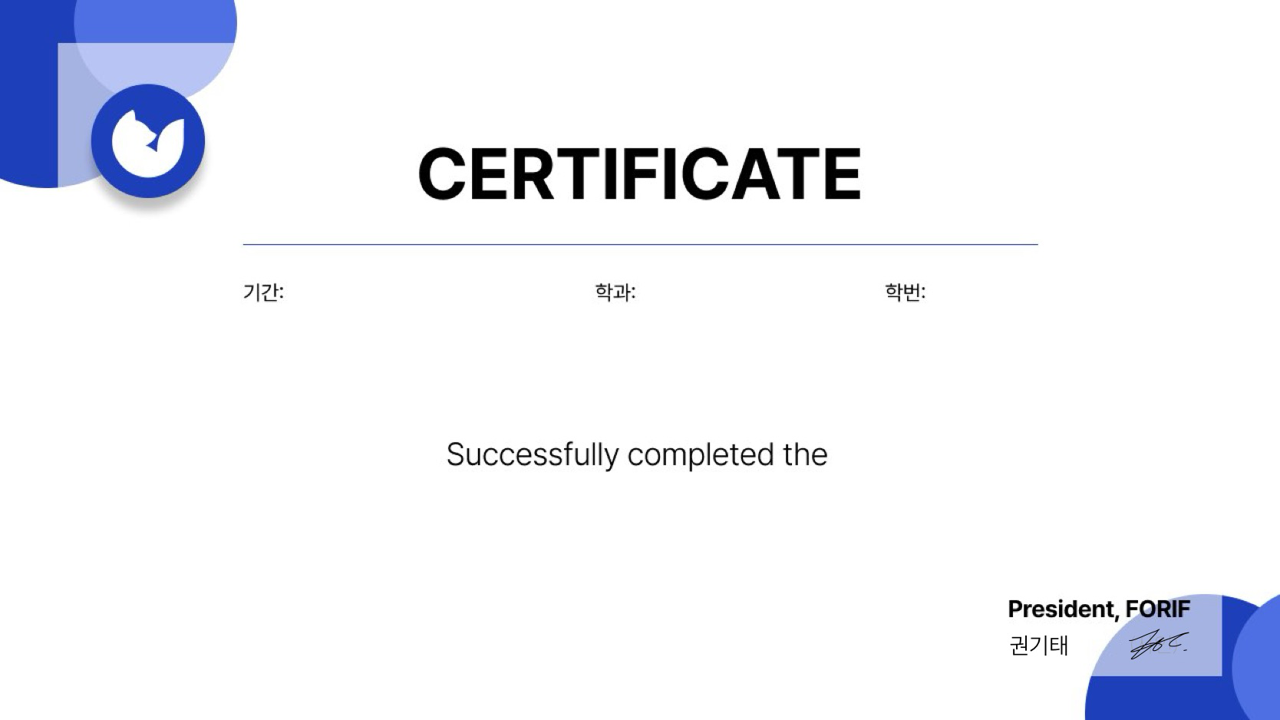
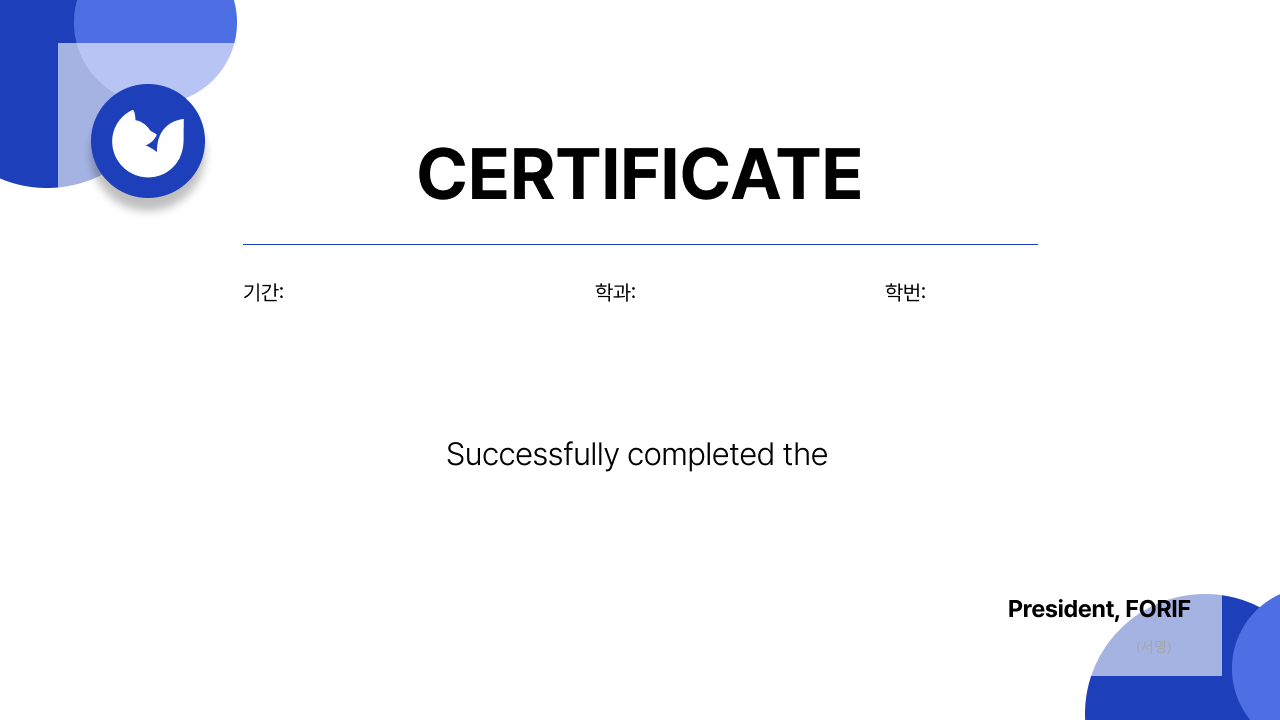
feat(study): 수료증 회장 이름 동적 렌더링
- 템플릿을 서명 없는 원본으로 교체하고 회장 이름을 텍스트로 렌더링
- 현재 회장(tb_staff_account affiliation='회장')을 자동 조회해 표기
- 수동 발급 시 president_name으로 과거 회장 지정 가능 (재발행용)

diff --git a/src/main/java/org/forif_backend/application/study/CertificateService.java b/src/main/java/org/forif_backend/application/study/CertificateService.java
@@ -8,6 +8,8 @@ import org.forif_backend.application.study.dto.IssueCertificatesResult;
 import org.forif_backend.common.exception.ErrorCode;
 import org.forif_backend.common.exception.ForifException;
 import org.forif_backend.domain.hackathon.HackathonRepository;
+import org.forif_backend.domain.staff.StaffAccount;
+import org.forif_backend.domain.staff.StaffAccountRepository;
 import org.forif_backend.domain.study.Study;
 import org.forif_backend.domain.study.StudyAttendanceRepository;
 import org.forif_backend.domain.study.StudyRepository;
@@ -41,8 +43,19 @@ public class CertificateService {
     private final StudyUserRepository studyUserRepository;
     private final StudyAttendanceRepository studyAttendanceRepository;
     private final HackathonRepository hackathonRepository;
+    private final StaffAccountRepository staffAccountRepository;
     private final CertificateImageGenerator certificateImageGenerator;
     private final FilePort filePort;
+
+    /**
+     * 현재 회장 이름 조회 (tb_staff_account의 affiliation='회장' ADMIN 계정)
+     */
+    private String resolvePresidentName() {
+        return staffAccountRepository.findByAffiliation("회장").stream()
+                .findFirst()
+                .map(StaffAccount::getName)
+                .orElse("");
+    }
 
     /**
      * 발급 대상 조회: 스터디 멘티 전원의 출석 횟수, 해커톤 참여, 자격 여부, 발급 상태
@@ -91,13 +104,19 @@ public class CertificateService {
      * 자격 검증과 DB 기록 없이 이미지 생성·저장 후 URL만 반환한다.
      */
     public String issueManualCertificate(String userName, String studentNumber, String department,
-                                         String studyName, String activityPeriod, String issueDate) {
+                                         String studyName, String activityPeriod, String issueDate,
+                                         String presidentName) {
         String resolvedIssueDate = issueDate == null || issueDate.isBlank()
                 ? LocalDate.now().format(ISSUE_DATE_FORMAT)
                 : issueDate;
+        // 과거 학기 재발행 시 당시 회장 이름을 직접 지정할 수 있고, 미지정 시 현재 회장
+        String resolvedPresidentName = presidentName == null || presidentName.isBlank()
+                ? resolvePresidentName()
+                : presidentName;
 
         byte[] image = certificateImageGenerator.generate(
-                userName, studentNumber, department, studyName, activityPeriod, resolvedIssueDate);
+                userName, studentNumber, department, studyName, activityPeriod,
+                resolvedIssueDate, resolvedPresidentName);
 
         // 파일명에 타임스탬프를 붙여 동일 인물 재발급 시 기존 파일을 덮어쓰지 않는다
         String filename = "%s-%d.png".formatted(studentNumber, System.currentTimeMillis());
@@ -120,6 +139,7 @@ public class CertificateService {
                 study.getActYear(), study.getActSemester()));
 
         String issueDate = LocalDate.now().format(ISSUE_DATE_FORMAT);
+        String presidentName = resolvePresidentName();
         String directory = "certificates/%d-%d/%d".formatted(
                 study.getActYear(), study.getActSemester(), study.getId());
 
@@ -151,7 +171,8 @@ public class CertificateService {
                     mentee.getUser().getDepartment(),
                     study.getStudyName(),
                     activityPeriod,
-                    issueDate
+                    issueDate,
+                    presidentName
             );
 
             String objectKey = filePort.uploadBytes(image, userId + ".png", directory, "image/png");

diff --git a/src/main/java/org/forif_backend/application/study/CertificateImageGenerator.java b/src/main/java/org/forif_backend/application/study/CertificateImageGenerator.java
@@ -39,6 +39,9 @@ public class CertificateImageGenerator {
     private static final int POS_STUDENT_NAME_Y = 360;
     private static final int POS_STUDY_NAME_Y = 500;
     private static final int[] POS_DATE = {575, 640};
+    // "President, FORIF" 라벨 아래 회장 이름 자리 (레거시에서는 템플릿에 수기로 넣던 부분)
+    private static final int FONT_PRESIDENT = 26;
+    private static final int[] POS_PRESIDENT_NAME = {1008, 632};
 
     private final ResourceLoader resourceLoader;
     private final String templatePath;
@@ -63,18 +66,22 @@ public class CertificateImageGenerator {
      * @param studyName      스터디명
      * @param activityPeriod 활동 기간 (예: 2026.03.02.~2026.06.20.)
      * @param issueDate      발급일 (예: 2026. 07. 07.)
+     * @param presidentName  발급 시점의 회장 이름 (우하단 President, FORIF 아래 표기)
      */
     public byte[] generate(String studentName, String studentNumber, String departmentName,
-                           String studyName, String activityPeriod, String issueDate) {
+                           String studyName, String activityPeriod, String issueDate,
+                           String presidentName) {
         // 레거시 데이터에 섞인 소프트 하이픈(U+00AD) 등 보이지 않는 문자가 수료증에 찍히지 않도록 제거
         studentName = sanitize(studentName);
         departmentName = sanitize(departmentName);
         studyName = sanitize(studyName);
+        presidentName = sanitize(presidentName);
         try {
             BufferedImage image = loadTemplate();
             Font baseFont = loadBaseFont();
             Font smallFont = baseFont.deriveFont(Font.PLAIN, FONT_SMALL);
             Font largeFont = baseFont.deriveFont(Font.PLAIN, FONT_LARGE);
+            Font presidentFont = baseFont.deriveFont(Font.PLAIN, FONT_PRESIDENT);
 
             Graphics2D graphics = image.createGraphics();
             graphics.setRenderingHint(RenderingHints.KEY_TEXT_ANTIALIASING,
@@ -87,6 +94,10 @@ public class CertificateImageGenerator {
             drawCentered(graphics, largeFont, studentName, POS_STUDENT_NAME_Y);
             drawCentered(graphics, largeFont, studyName, POS_STUDY_NAME_Y);
             drawTopLeft(graphics, smallFont, issueDate, POS_DATE[0], POS_DATE[1]);
+            if (!presidentName.isBlank()) {
+                drawTopLeft(graphics, presidentFont, presidentName,
+                        POS_PRESIDENT_NAME[0], POS_PRESIDENT_NAME[1]);
+            }
 
             graphics.dispose();
 

diff --git a/src/main/java/org/forif_backend/web/study/dto/ManualCertificateRequest.java b/src/main/java/org/forif_backend/web/study/dto/ManualCertificateRequest.java
@@ -26,6 +26,9 @@ public record ManualCertificateRequest(
         String activityPeriod,
 
         @Schema(description = "발급일 (미입력 시 오늘 날짜)", example = "2026. 07. 07.")
-        String issueDate
+        String issueDate,
+
+        @Schema(description = "회장 이름 (미입력 시 현재 회장, 과거 재발행 시 당시 회장 지정 가능)", example = "권기태")
+        String presidentName
 ) {
 }

diff --git a/src/main/java/org/forif_backend/web/study/AdminCertificateController.java b/src/main/java/org/forif_backend/web/study/AdminCertificateController.java
@@ -66,7 +66,8 @@ public class AdminCertificateController {
                 request.department(),
                 request.studyName(),
                 request.activityPeriod(),
-                request.issueDate()
+                request.issueDate(),
+                request.presidentName()
         );
         return ResponseEntity.ok(ApiResponse.success(new ManualCertificateResponse(certificateUrl)));
     }
